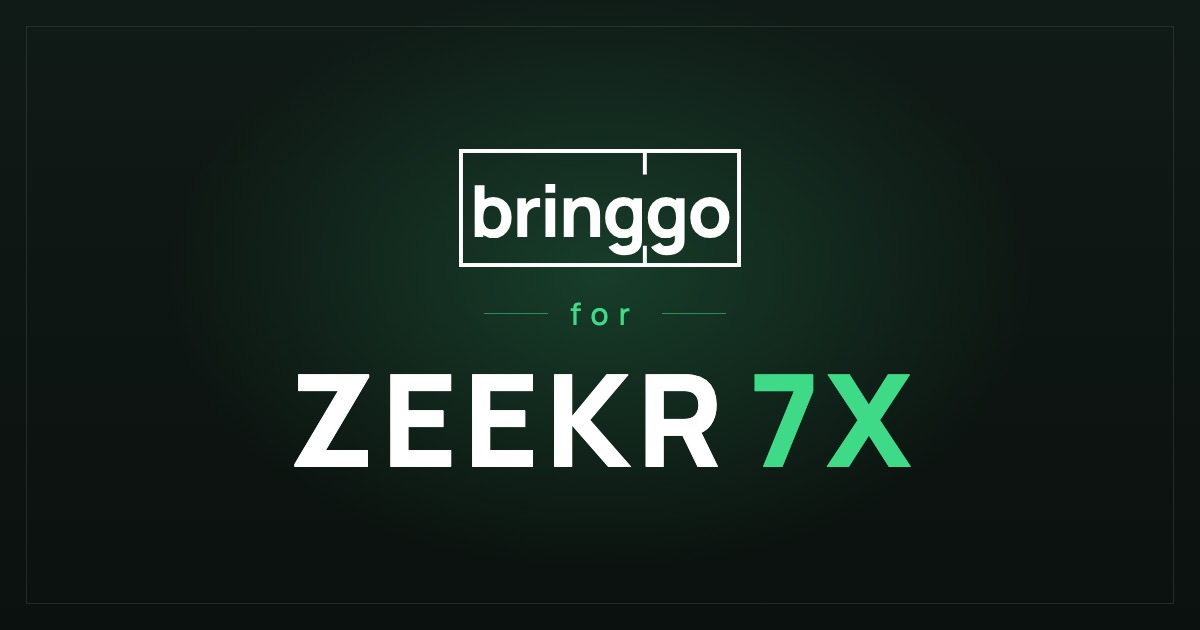
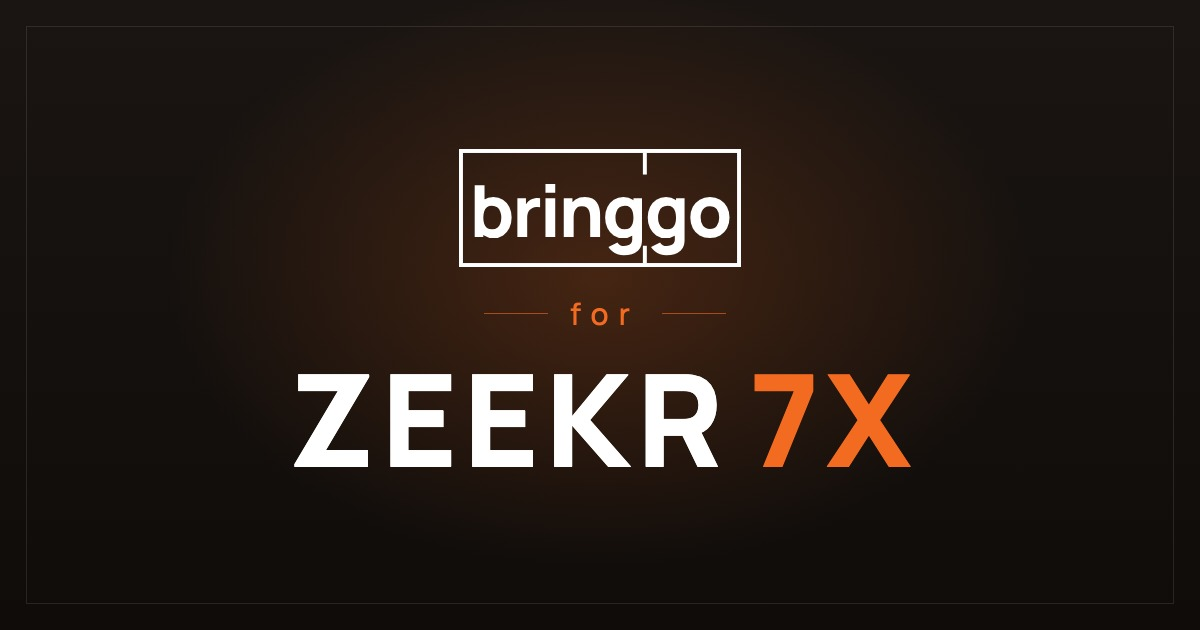
공유 미리보기 이미지: 포인트색을 지커 오렌지로 변경

Changed region(s): [[0.2775, 0.1508, 0.7708, 0.754]]

diff --git a/shop/index.html b/shop/index.html
@@ -13,18 +13,18 @@ if (/github\.io$/.test(location.hostname)) location.replace('https://bringgo.pag
 <meta property="og:title" content="bringgo for ZEEKR 7X">
 <meta property="og:description" content="지커 7X 실내 액세서리 딜러 전용 주문">
 <meta property="og:url" content="https://bringgo.pages.dev/shop/">
-<meta property="og:image" content="https://bringgo.pages.dev/shop/img/brand/og.jpg?v=1">
+<meta property="og:image" content="https://bringgo.pages.dev/shop/img/brand/og.jpg?v=20052016">
 <meta property="og:image:width" content="1200">
 <meta property="og:image:height" content="630">
 <meta name="twitter:card" content="summary_large_image">
-<meta name="twitter:image" content="https://bringgo.pages.dev/shop/img/brand/og.jpg?v=1">
+<meta name="twitter:image" content="https://bringgo.pages.dev/shop/img/brand/og.jpg?v=20052016">
 <link rel="icon" type="image/png" sizes="32x32" href="img/brand/favicon-32.png">
 <link rel="icon" type="image/png" sizes="64x64" href="img/brand/favicon-64.png">
 <link rel="apple-touch-icon" href="img/brand/apple-touch-icon.png">
 <meta name="theme-color" content="#f3f1ec">
 <link rel="stylesheet" href="https://cdn.jsdelivr.net/npm/pretendard@1.3.9/dist/web/variable/pretendardvariable-dynamic-subset.min.css">
 <link rel="stylesheet" href="https://fonts.googleapis.com/css2?family=Oswald:wght@500;600&display=swap">
-<link rel="stylesheet" href="shop.css?v=10052009">
+<link rel="stylesheet" href="shop.css?v=10052016">
 </head>
 <body>
 <header>
@@ -39,8 +39,8 @@ if (/github\.io$/.test(location.hostname)) location.replace('https://bringgo.pag
 
 <script src="https://cdn.jsdelivr.net/npm/@supabase/supabase-js@2"></script>
 <script src="https://t1.daumcdn.net/mapjsapi/bundle/postcode/prod/postcode.v2.js"></script>
-<script src="config.js?v=10052009"></script>
-<script src="common.js?v=10052009"></script>
-<script src="shop.js?v=10052009"></script>
+<script src="config.js?v=10052016"></script>
+<script src="common.js?v=10052016"></script>
+<script src="shop.js?v=10052016"></script>
 </body>
 </html>
